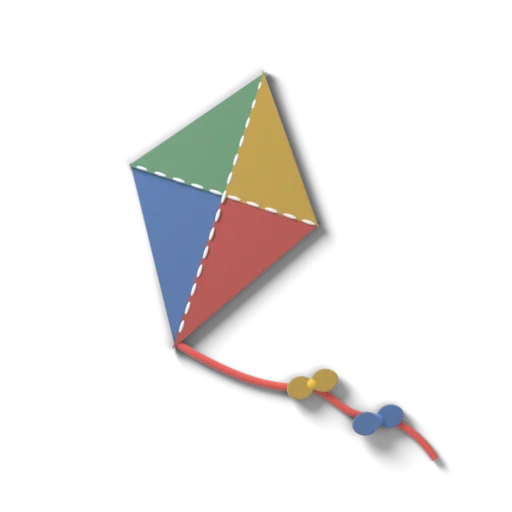
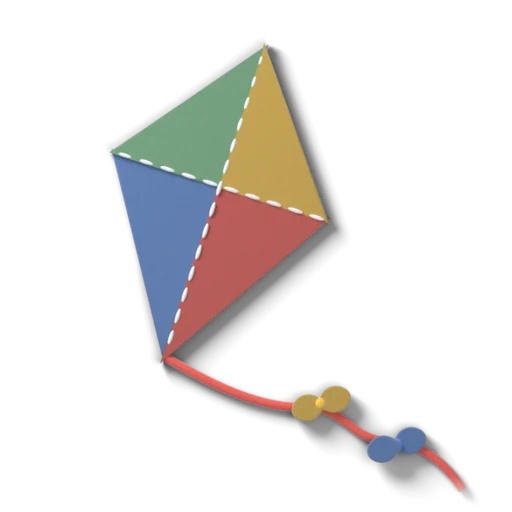
Review round 4 fixes: plan option grid, scoped text balancing, quieter plan footer, no bloom headline, centred reflection, ring-ordered strands

Changed region(s): [[0.2188, 0.0625, 0.9375, 0.9688]]

diff --git a/src/components/plan/PlanView.tsx b/src/components/plan/PlanView.tsx
@@ -197,8 +197,7 @@ export function PlanView({ initialTask, onConsumeTask }: { initialTask: PlanTask
                   </h2>
                   {q.multi && <p className="t-small ink-3">Pick any</p>}
                   <div
-                    className={q.options.length <= 3 ? 'grid gap-2 mt-3' : 'flex flex-wrap gap-2 mt-3'}
-                    style={q.options.length <= 3 ? { gridTemplateColumns: `repeat(${evenColumns(q.options)}, minmax(0, 1fr))` } : undefined}
+                    className={paired(q.options) ? 'grid grid-cols-2 gap-2 mt-3' : 'flex flex-wrap gap-2 mt-3'}
                     role={q.multi ? 'group' : 'radiogroup'}
                     aria-label={q.question}
                     onKeyDown={q.multi ? undefined : (e) => onRovingKeyDown(e)}
@@ -209,7 +208,8 @@ export function PlanView({ initialTask, onConsumeTask }: { initialTask: PlanTask
                         <button
                           key={o}
                           type="button"
-                          className={q.options.length <= 3 ? 'chip justify-center text-center' : 'chip'}
+                          className={paired(q.options) ? 'chip justify-center text-center' : 'chip'}
+                          style={paired(q.options) && q.options.length % 2 === 1 && oi === q.options.length - 1 ? { gridColumn: 'span 2' } : undefined}
                           role={q.multi ? undefined : 'radio'}
                           aria-checked={q.multi ? undefined : on}
                           tabIndex={q.multi ? undefined : rovingTabIndex(oi, q.options.indexOf(picks[q.id]?.[0] ?? ''))}
@@ -246,15 +246,17 @@ export function PlanView({ initialTask, onConsumeTask }: { initialTask: PlanTask
                 <IdeaCard key={i} idea={idea} index={i} chosen={chosen} byName={byName} />
               ))}
               <p className="t-small ink-3">Ideas by AI. Check times and prices first.</p>
-              <div className="grid grid-cols-2 gap-2 mt-1">
+              <div className="grid gap-1 mt-1">
                 <PickForUs count={result.ideas.length} onPick={setChosen} />
-                <button type="button" className="btn" onClick={() => setStage('questions')}>
-                  Change answers
-                </button>
+                <div className="grid grid-cols-2">
+                  <button type="button" className="btn btn-quiet btn-sm" onClick={() => setStage('questions')}>
+                    Change answers
+                  </button>
+                  <button type="button" className="btn btn-quiet btn-sm" onClick={reset}>
+                    Something else
+                  </button>
+                </div>
               </div>
-              <button type="button" className="btn btn-quiet" onClick={reset}>
-                Plan something else
-              </button>
             </div>
           )}
         </motion.div>
@@ -265,9 +267,9 @@ export function PlanView({ initialTask, onConsumeTask }: { initialTask: PlanTask
 
 const IDEA_STOCK = ['stock-butter', 'stock-pink', 'stock-sky'];
 
-/** Up to three short options sit side by side at equal widths; longer ones stack. */
-function evenColumns(options: string[]) {
-  return options.every((o) => o.length <= 10) ? options.length : 1;
+/** Two to four short options sit in an even two-column grid; anything else wraps as chips. */
+function paired(options: string[]) {
+  return options.length >= 2 && options.length <= 4 && options.every((o) => o.length <= 18);
 }
 
 /** One idea: the title and one line up front; the reasoning one tap away. */
@@ -296,11 +298,11 @@ function IdeaCard({ idea, index, chosen, byName }: { idea: PlanIdea; index: numb
         </div>
         {isChosen && <p className="t-hand mt-1">This one!</p>}
       </div>
-      <div className="px-5 pt-3 pb-4">
+      <div className="px-5 pt-4 pb-3">
         <p className="t-body">{idea.summary}</p>
         <button
           type="button"
-          className="t-label mt-2 bg-transparent border-0 p-0 min-h-[44px] flex items-center gap-1"
+          className="t-label mt-1 -mb-1 bg-transparent border-0 p-0 min-h-[44px] flex items-center gap-1"
           style={{ color: 'var(--accent-ink)' }}
           aria-expanded={open}
           onClick={() => setOpen((o) => !o)}
@@ -341,7 +343,7 @@ function PickForUs({ count, onPick }: { count: number; onPick: (i: number) => vo
   return (
     <button
       type="button"
-      className="btn"
+      className="btn btn-primary"
       disabled={spinning || count === 0}
       onClick={() => {
         setSpinning(true);

diff --git a/src/components/ask/AskView.tsx b/src/components/ask/AskView.tsx
@@ -110,13 +110,13 @@ export function AskView() {
   const suggestions = starters.data?.suggestions?.slice(0, 3) || [];
 
   return (
-    <div className="page" style={{ paddingBottom: 'calc(188px + var(--safe-b))' }}>
+    <div className="page" style={{ paddingBottom: 'calc(var(--tabbar-top) + var(--composer-h) + 28px + var(--safe-b))' }}>
       <PageHeader title="Ask" onProfile={ui.openSettings} />
 
       {empty ? (
         <>
-          <section className="flex items-center gap-2 -ml-3 -mt-1">
-            <Felt name="yarnball" size={112} />
+          <section className="flex items-center gap-2 -ml-2">
+            <Felt name="yarnball" size={88} />
             <p className="t-body ink-2 flex-1 -ml-2">Answers come only from what your family saved.</p>
           </section>
 
@@ -194,10 +194,10 @@ export function AskView() {
       <div ref={endRef} />
 
       {/* A strip of page behind the composer and tab bar, so nothing shows between them. */}
-      <div aria-hidden className="fixed z-[19] inset-x-0 bottom-0 mx-auto max-w-[460px]" style={{ height: 'calc(170px + var(--safe-b))', background: 'var(--page)', boxShadow: '0 -1px 0 var(--line)' }} />
+      <div aria-hidden className="fixed z-[19] inset-x-0 bottom-0 mx-auto max-w-[460px]" style={{ height: 'calc(var(--tabbar-top) + var(--composer-h) / 2 + var(--safe-b))', background: 'var(--page)' }} />
       <form
         className="fixed z-20 left-1/2 -translate-x-1/2 w-[min(420px,calc(100%-32px))] flex items-end gap-2 p-1.5 pl-2 rounded-[28px]"
-        style={{ bottom: 'calc(96px + var(--safe-b))', background: 'color-mix(in srgb, var(--card) 96%, transparent)', backdropFilter: 'blur(28px) saturate(1.5)', WebkitBackdropFilter: 'blur(28px) saturate(1.5)', boxShadow: '0 0 0 0.5px var(--line-strong), var(--shadow-lift)' }}
+        style={{ bottom: 'calc(var(--tabbar-top) + var(--safe-b))', minHeight: 'var(--composer-h)', background: 'color-mix(in srgb, var(--card) 96%, transparent)', backdropFilter: 'blur(28px) saturate(1.5)', WebkitBackdropFilter: 'blur(28px) saturate(1.5)', boxShadow: '0 0 0 0.5px var(--line-strong), var(--shadow-lift)' }}
         onSubmit={(e) => {
           e.preventDefault();
           send(input);

diff --git a/src/components/together/TogetherView.tsx b/src/components/together/TogetherView.tsx
@@ -132,9 +132,20 @@ function FamilyCircle({ people, links, onOpen }: { people: FamilyPerson[]; links
       return [p.id, { x: cx + rx * Math.cos(a), y: cy + ry * Math.sin(a) }] as const;
     })
   );
+  const order = new Map(people.map((p, i) => [p.id, i]));
+  // Where a strand meets each flower: the middle of the bloom, which sits high on the lavender sprig.
+  const anchor = (id: string) => {
+    const at = pos.get(id)!;
+    const person = people[order.get(id)!];
+    return person.style === 'Chiller' ? { x: at.x, y: at.y - size * 0.2 } : at;
+  };
   const strands: { d: string; color: string; key: string }[] = [];
   links.forEach((ids, li) => {
-    const pts = ids.map((id) => pos.get(id)).filter(Boolean) as { x: number; y: number }[];
+    // Chain people in their order around the ring, so strands follow the circle instead of crossing.
+    const pts = ids
+      .filter((id) => pos.has(id))
+      .sort((a, b) => order.get(a)! - order.get(b)!)
+      .map(anchor);
     for (let i = 0; i + 1 < pts.length; i++) {
       const a = pts[i];
       const b = pts[i + 1];
@@ -184,8 +195,8 @@ function Row({ first, people, title, body, yarn, children }: { first: boolean; p
         ))}
       </span>
       <div className="min-w-0 flex-1">
-        <h3 className="font-bold flex items-center gap-2" style={{ fontSize: '1.0625rem', lineHeight: 1.3 }}>
-          {yarn && <span aria-hidden className="shrink-0 rounded-full" style={{ width: 14, height: 4, background: yarn }} />}
+        <h3 className="font-bold flex items-start gap-2" style={{ fontSize: '1.0625rem', lineHeight: 1.3 }}>
+          {yarn && <span aria-hidden className="shrink-0 rounded-full mt-[0.55em]" style={{ width: 14, height: 4, background: yarn }} />}
           {title}
         </h3>
         <p className="t-small ink-2 mt-1">{body}</p>

diff --git a/server/ai.ts b/server/ai.ts
@@ -167,9 +167,9 @@ const people = z.array(z.string()).max(8);
 
 const SparkSchema = z.object({ question: line(110), why: line(80), members: people });
 
-const BloomSchema = z.object({ headline: line(50), note: line(200), tryThis: line(100) });
+const BloomSchema = z.object({ note: line(160), tryThis: line(100) });
 
-const RootsSchema = z.object({ reflection: line(130), followUp: line(110).nullable() });
+const RootsSchema = z.object({ reflection: line(90), followUp: line(110).nullable() });
 
 const InsightsSchema = z.object({
   headline: line(60),
@@ -308,9 +308,8 @@ aiRouter.post('/bloom', async (req, res) => {
     g.ai,
     g.brief,
     `${m.name} just finished the Foundation discovery. Their top style is ${m.topStyle} and their second style is ${m.secondStyle}. Write a short, warm note to them about their result.
-- headline: 3–6 words, playful, about how they bloom. Don't name the styles.
-- note: 2 sentences, under 30 words, speaking to them as "you". Mention two or three specific things they picked (paraphrased) and show how both their top and second style appear in those picks.
-- tryThis: one small, concrete thing they could do with someone in the family this week, under 14 words, naming that person if it fits their answers.
+- note: 2 sentences, under 25 words, speaking to them as "you". Mention two or three specific things they picked (paraphrased) and show how both their top and second style appear in those picks.
+- tryThis: one small, concrete thing to do with someone in the family, under 12 words, naming that person if it fits their answers. Start with a verb and don't mention when (the app already labels it "Try this week").
 Never mention percentages, scores, or the other four styles.`,
     `Write the note for ${m.name}.`,
     BloomSchema,

diff --git a/src/index.css b/src/index.css
@@ -58,6 +58,9 @@
   --r-ctl: 14px;
   --safe-b: env(safe-area-inset-bottom, 0px);
   --safe-t: env(safe-area-inset-top, 0px);
+  /* The floating dock: the composer sits on top of the tab bar. */
+  --tabbar-top: 92px;
+  --composer-h: 58px;
 }
 
 .dark {
@@ -81,10 +84,10 @@
   --yarn: #f08aa6;
   --yarn-deep: #c95d7c;
 
-  --stock-pink: color-mix(in srgb, #f08aa6 20%, var(--card));
+  --stock-pink: color-mix(in srgb, #f08aa6 14%, var(--card));
   --stock-pink-ink: #ffd9e4;
-  /* Yellow over navy turns olive, so at night butter stock is plain paper with golden ink. */
-  --stock-butter: var(--card-2);
+  /* Yellow over navy turns olive, so the night butter is only a hint of gold over paper. */
+  --stock-butter: color-mix(in srgb, #f4c542 10%, var(--card-2));
   --stock-butter-ink: #fbe7ae;
   --stock-mint: color-mix(in srgb, #7fc49a 18%, var(--card));
   --stock-mint-ink: #cdf0da;
@@ -142,12 +145,12 @@
   ::selection {
     background: var(--accent-soft);
   }
-  /* No single word left alone on the last line. */
-  h1,
-  h2,
-  h3 {
+  /* No single word left alone on the last line; only page titles are balanced. */
+  h1 {
     text-wrap: balance;
   }
+  h2,
+  h3,
   p,
   li {
     text-wrap: pretty;

diff --git a/src/components/discovery/RootsFlow.tsx b/src/components/discovery/RootsFlow.tsx
@@ -201,7 +201,7 @@ export function RootsFlow({ open, onClose }: { open: boolean; onClose: () => voi
         )}
 
         {stage === 'reflect' && (
-          <motion.div key={`r${q.id}`} initial={{ opacity: 0, y: 12 }} animate={{ opacity: 1, y: 0 }} exit={{ opacity: 0 }} className="grid gap-4 pt-2">
+          <motion.div key={`r${q.id}`} initial={{ opacity: 0, y: 12 }} animate={{ opacity: 1, y: 0 }} exit={{ opacity: 0 }} className="grid gap-4 content-center min-h-[calc(100dvh-220px-var(--safe-t)-var(--safe-b))]">
             <section className="stock stock-lilac">
               <h3 className="t-head">{q.question}</h3>
               <p className="t-body mt-1.5 opacity-80">{text.trim()}</p>

diff --git a/src/components/profile/MemberSheet.tsx b/src/components/profile/MemberSheet.tsx
@@ -45,8 +45,7 @@ export function MemberSheet({ memberId, onClose }: { memberId: string | null; on
 
           {answers.bloomNote && profile && (
             <section className="card p-5" aria-label={`A note for ${name}`}>
-              <h3 className="t-head">{answers.bloomNote.headline}</h3>
-              <p className="t-body ink-2 mt-1.5">{answers.bloomNote.note}</p>
+              <p className="t-body">{answers.bloomNote.note}</p>
               <p className="t-small mt-3 stock stock-butter" style={{ padding: '10px 12px', boxShadow: 'none' }}>
                 <span className="font-bold">Try this week: </span>
                 {answers.bloomNote.tryThis}

diff --git a/src/components/layout/TabBar.tsx b/src/components/layout/TabBar.tsx
@@ -47,9 +47,13 @@ export function PageHeader({
   return (
     <header className="flex items-start justify-between gap-3 pb-3">
       <div className="min-w-0">
-        {isDemo && demoNote && <p className="t-hand ink-3 mb-1" style={{ fontSize: '0.875rem' }}>Demo family, nothing is saved</p>}
         <h1 className="t-display">{title}</h1>
         {subtitle && <p className="t-small ink-2 mt-1.5">{subtitle}</p>}
+        {isDemo && demoNote && (
+          <p className="t-hand ink-3 mt-1" style={{ fontSize: '0.875rem' }}>
+            Demo family, nothing is saved
+          </p>
+        )}
       </div>
       <button
         type="button"

diff --git a/src/components/discovery/FoundationFlow.tsx b/src/components/discovery/FoundationFlow.tsx
@@ -276,8 +276,7 @@ export function FoundationFlow({ open, onClose }: { open: boolean; onClose: () =
               )}
               {note && (
                 <>
-                  <h3 className="t-head">{note.headline}</h3>
-                  <p className="t-body ink-2 mt-2">{note.note}</p>
+                  <p className="t-body">{note.note}</p>
                   <p className="t-small mt-3 stock stock-butter" style={{ padding: '10px 12px', boxShadow: 'none' }}>
                     <span className="font-bold">Try this week: </span>
                     {note.tryThis}

diff --git a/src/components/ui/Sheet.tsx b/src/components/ui/Sheet.tsx
@@ -123,7 +123,7 @@ export function Sheet({ open, onClose, title, hideTitle, full, children, footer,
               onPointerDown={full ? undefined : (e) => drag.start(e)}
             >
               {leading}
-              <h2 id={titleId} className={hideTitle ? 'sr-only' : 't-head flex-1 pl-1 truncate'}>
+              <h2 id={titleId} className={hideTitle ? 'sr-only' : 't-head flex-1 truncate'}>
                 {title}
               </h2>
               <button type="button" className="icon-btn" onClick={onClose} aria-label="Close">

diff --git a/src/types.ts b/src/types.ts
@@ -52,7 +52,8 @@ export interface AdvancedAnswer {
 
 /** The AI-written note shown on a member's bloom (Foundation result). */
 export interface BloomNote {
-  headline: string;
+  /** Written by earlier versions; no longer shown. */
+  headline?: string;
   note: string;
   tryThis: string;
   forProfileAt: string;

diff --git a/src/services/ai.ts b/src/services/ai.ts
@@ -41,7 +41,6 @@ export interface Spark {
 }
 
 export interface BloomNoteResult {
-  headline: string;
   note: string;
   tryThis: string;
 }
